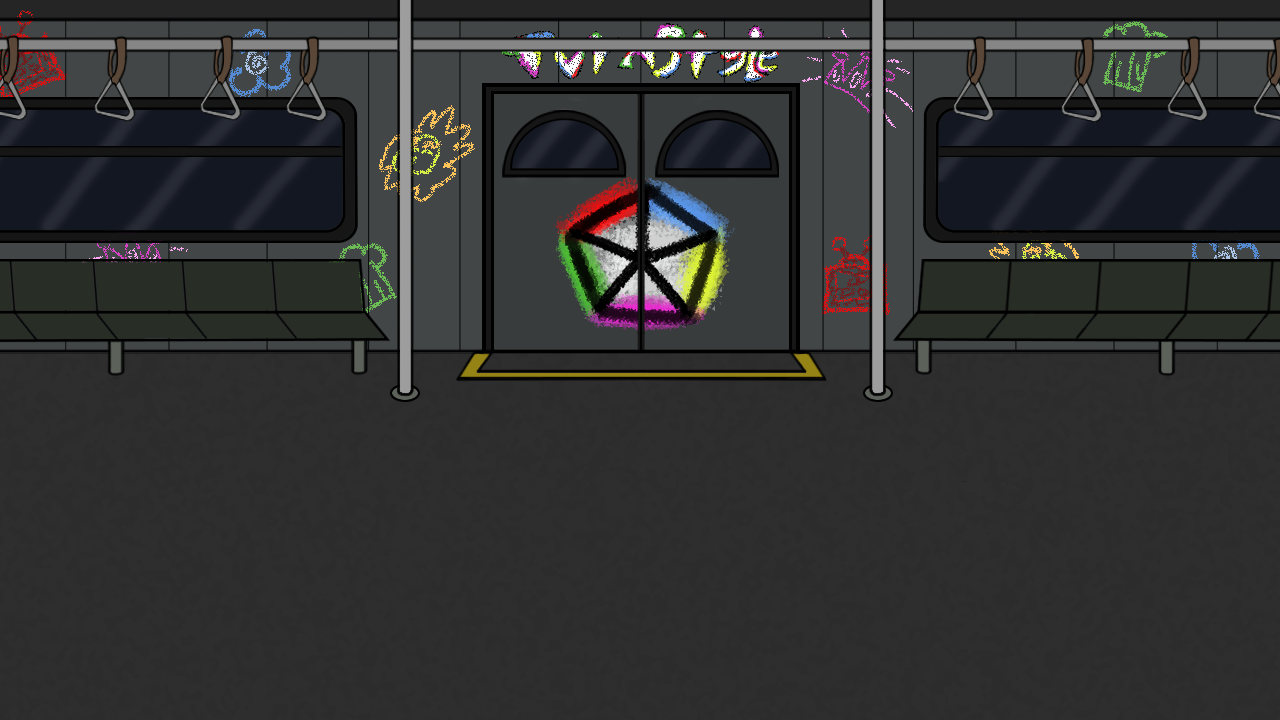
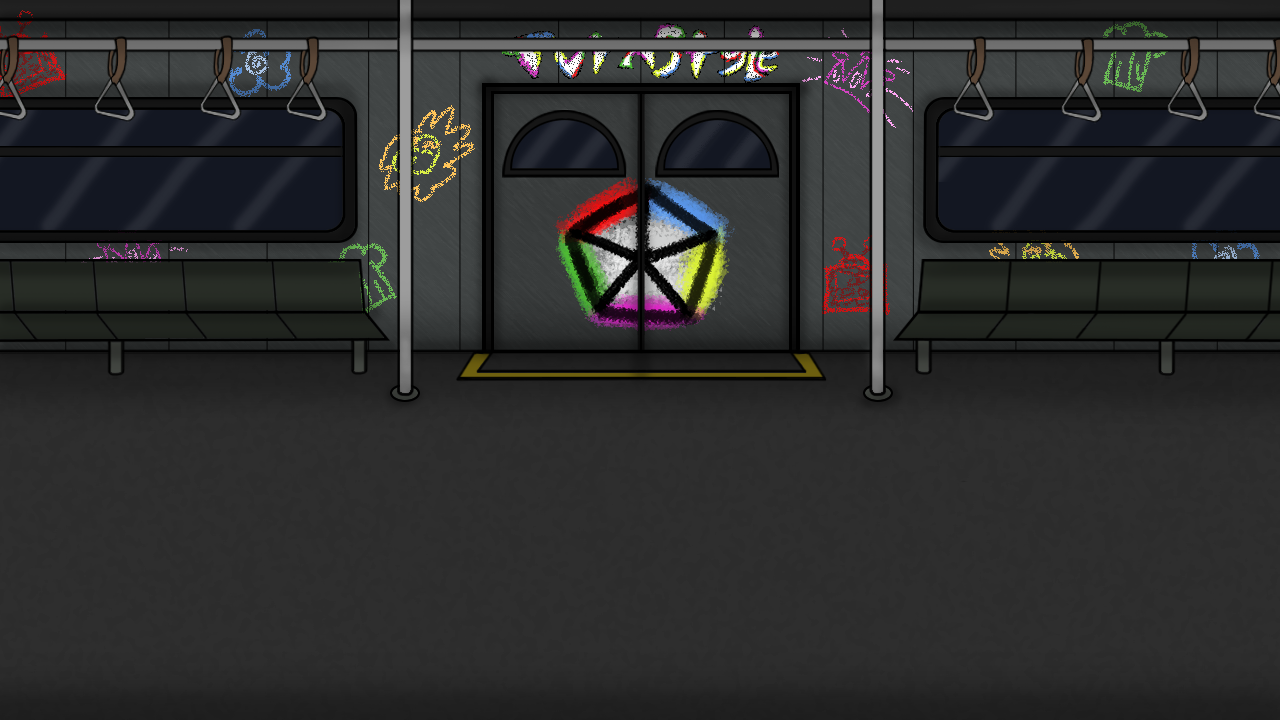
implement backgrounds

diff --git a/TurnstyleBeta/Assets/scripts/CameraController.cs b/TurnstyleBeta/Assets/scripts/CameraController.cs
@@ -25,7 +25,7 @@ public class CameraController : MonoBehaviour
     public GameObject Music;
     //determines which cutscene node is active
     public int currentCutScene =0;
-    private bool hasMoney;
+    public bool hasMoney;
 
     public GameObject moneyTxt;
     public GameObject objective;
@@ -66,6 +66,9 @@ public class CameraController : MonoBehaviour
             Music.SetActive(false);
             SceneManager.LoadScene("DialogueScene", LoadSceneMode.Additive);
         }
+        if (money>0)hasMoney = true;
+        GameObject Stats = GameObject.Find("CurrentStats");
+        Stats.GetComponent<CurrentStats>().hasMoney = hasMoney;
     }
 
     // Update is called once per frame
@@ -295,11 +298,13 @@ public class CameraController : MonoBehaviour
     }
 
     void MoneyUpdate(){
+        GameObject Stats = GameObject.Find("CurrentStats");
         if (money >= 0)
         moneyTxt.GetComponent<TextMeshProUGUI>().text = "$" + money + "<size=54.4><sup><u>00";
         if(money == -1 && hasMoney){
             Music.SetActive(false);
             hasMoney = false;
+            Stats.GetComponent<CurrentStats>().hasMoney = false;
             tutorialPhone.GetComponent<tutorialHandler>().open(2);
             foreach(Station h in this.allStations){
                 h.EnableHardMode(); //flag
@@ -307,6 +312,7 @@ public class CameraController : MonoBehaviour
         }else if (money > 0 && !hasMoney){
             Music.SetActive(true);
             hasMoney = true;
+            Stats.GetComponent<CurrentStats>().hasMoney = true;
             foreach(Station h in this.allStations){
                 h.DisableHardMode(); //flag
             }

diff --git a/TurnstyleBeta/Assets/scripts/MainLoop.cs b/TurnstyleBeta/Assets/scripts/MainLoop.cs
@@ -86,6 +86,7 @@ public class MainLoop : MonoBehaviour
 	private List<Unit> queuedActions;
 	public int speedTotal;
     public float textSpeed;
+    public GameObject background;
 
     public GameObject uiController;
     public GameObject damagePopUp;
@@ -147,6 +148,11 @@ public class MainLoop : MonoBehaviour
     // Start is called before the first frame update
     void Start()
     {
+        if(!Stats.GetComponent<CurrentStats>().hasMoney){
+            background.GetComponent<Image>().sprite = Resources.Load<Sprite>("Backgrounds/Track");
+        }else{
+            background.GetComponent<Image>().sprite = Resources.Load<Sprite>("Backgrounds/Train");
+        }
         textSpeed = PlayerPrefs.GetFloat("combatTextSpeed", 1.125f);
         isSkipped = false;
         foreach (Enemy unit in enemyUnits)

diff --git a/TurnstyleBeta/Assets/scripts/CurrentStats.cs b/TurnstyleBeta/Assets/scripts/CurrentStats.cs
@@ -13,6 +13,7 @@ public class CurrentStats : MonoBehaviour
     // Start is called before the first frame update
     public int isTutorial;
     public int currentTutorial;
+    public bool hasMoney;
     void Start()
     {
         
